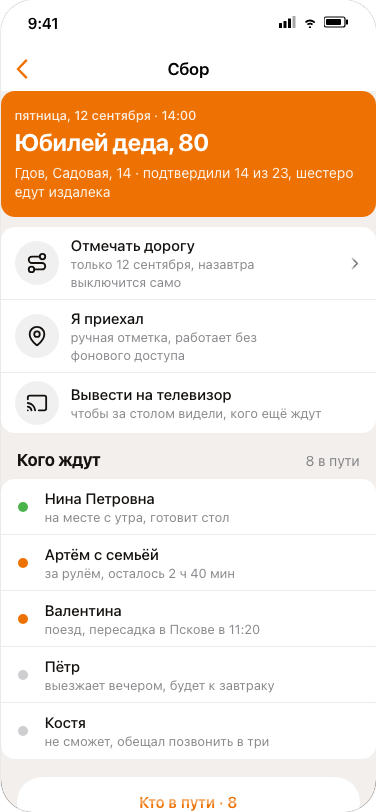
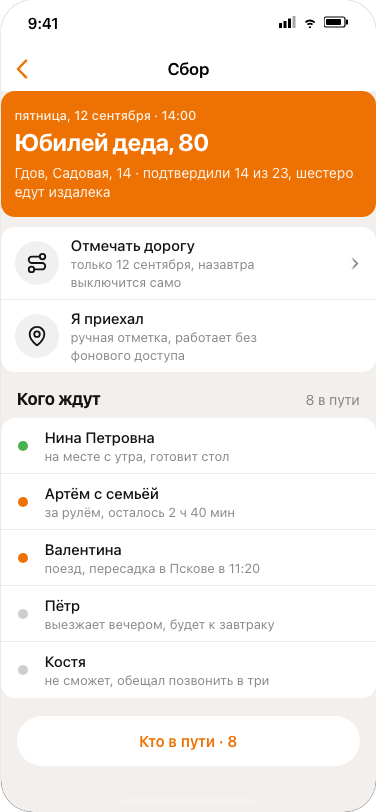
На телевизор уходят видео и записи, а не публикации
Каст стоял в шапке публикации, и одна фотография отправлялась на
большой экран — это не тот сценарий. Экран показа при этом всегда
описывал воспроизведение, а не картинку.

Заведён раздел «Видео»: семейные записи с длительностью, источником
и состоянием загрузки. Из него и из плеера архива идёт выбор
устройства в сети. Из публикации каст убран, из «Сбора» тоже —
живая карта на телевизоре была слабой веткой.

Экран показа стал воспроизведением записи: позиция, перемотка на
±15 секунд, остановка возвращает в раздел видео.

31 экран, тест 113/113, линтер, аудит и сетка чисты.

diff --git a/platform/concepts/rodnya/screens/films.html b/platform/concepts/rodnya/screens/films.html
@@ -1,0 +1,53 @@
+<div class="screen r-page" id="scr-films">
+  <div class="navbar">
+    <div class="nav-leading"><div class="btn-plain tap" data-back aria-label="Назад"><svg class="ios-back" viewBox="0 0 12 21" fill="none"><path d="M10.25 1.75L1.75 10.5l8.5 8.75" stroke="currentColor" stroke-width="2.6" stroke-linecap="round" stroke-linejoin="round"/></svg></div></div>
+    <div class="title">Видео</div>
+  </div>
+  <div class="body-scroll r-scroll">
+    <div class="r-wrap">
+      <div class="r-card pad">
+        <div class="r-prof-nums">
+          <div class="r-prof-num"><b>12</b><span>видео</span></div>
+          <div class="r-prof-num"><b>4</b><span>с кассет</span></div>
+          <div class="r-prof-num"><b>1979</b><span>самое раннее</span></div>
+        </div>
+        <button class="btn-filled tap r-album-cast" data-primary data-go="tv" aria-label="Смотреть на телевизоре"><svg class="ico-svg"><use href="#i-cast"/></svg>Смотреть на телевизоре</button>
+      </div>
+
+      <div class="r-sec-head"><h2>Семейное видео</h2><span>12</span></div>
+      <div class="r-card">
+        <div class="r-row tap" data-go="tv" aria-label="Юбилей деда, застолье">
+          <div class="r-row-face is-art"><div class="ph"></div></div>
+          <div class="r-row-copy"><div class="r-row-t">Юбилей деда, застолье</div><div class="r-row-s">снимал Артём · не скачано, 412 МБ</div></div>
+          <div class="r-end">8:12</div>
+        </div>
+        <div class="r-row tap" data-go="tv" aria-label="Покос, оцифровано с кассеты">
+          <div class="r-row-face is-art"><div class="ph"></div></div>
+          <div class="r-row-copy"><div class="r-row-t">Покос, оцифровано с кассеты</div><div class="r-row-s">оцифровано с кассеты · скачивается</div><div class="dl-bar"><i class="r-p62"></i></div></div>
+          <div class="r-end">3:47 · 62 %</div>
+        </div>
+        <div class="r-row tap" data-go="tv" aria-label="Свадьба на Садовой">
+          <div class="r-row-face is-art"><div class="ph"></div></div>
+          <div class="r-row-copy"><div class="r-row-t">Свадьба на Садовой</div><div class="r-row-s">склеено из четырёх кассет · скачано</div></div>
+          <div class="r-end">21:36</div>
+        </div>
+        <div class="r-row tap" data-go="tv" aria-label="Первые шаги Артёма">
+          <div class="r-row-face is-art"><div class="ph"></div></div>
+          <div class="r-row-copy"><div class="r-row-t">Первые шаги Артёма</div><div class="r-row-s">снято на камеру, 1997 · скачано</div></div>
+          <div class="r-end">1:04</div>
+        </div>
+        <div class="r-row tap" data-go="tv" aria-label="Как строили баню">
+          <div class="r-row-face is-art"><div class="ph"></div></div>
+          <div class="r-row-copy"><div class="r-row-t">Как строили баню</div><div class="r-row-s">звук пропадает с шестой минуты</div></div>
+          <div class="r-end">14:29</div>
+        </div>
+        <div class="r-row tap" data-go="tv" aria-label="Проводы в армию">
+          <div class="r-row-face is-art"><div class="ph"></div></div>
+          <div class="r-row-copy"><div class="r-row-t">Проводы в армию, 1979</div><div class="r-row-s">самая ранняя плёнка в архиве</div></div>
+          <div class="r-end">6:51</div>
+        </div>
+      </div>
+    </div>
+  </div>
+  <div class="home-ind" aria-hidden="true"></div>
+</div>

diff --git a/platform/concepts/rodnya/screens/cast.html b/platform/concepts/rodnya/screens/cast.html
@@ -1,17 +1,17 @@
 <div class="screen r-page r-dark" id="scr-cast">
   <div class="r-stage r-cast">
     <div class="r-cast-art"><div class="ph on-dark"></div></div>
-    <div class="r-cast-t">Двор на Садовой</div>
-    <div class="r-cast-s">Снимок 7 из 34 · Телевизор в гостиной</div>
+    <div class="r-cast-t">Юбилей деда, застолье</div>
+    <div class="r-cast-s">03:04 из 8:12 · Телевизор в гостиной</div>
     <div class="r-track r-cast-track"><span class="r-track-in"></span></div>
     <div class="grow"></div>
     <div class="r-transport r-cast-ctl">
-      <div class="r-ctl tap" data-toast="Предыдущий снимок" aria-label="Предыдущий снимок"><svg class="ico-svg"><use href="#i-chevron-left"/></svg></div>
+      <div class="r-ctl tap" data-toast="Назад на 15 секунд" aria-label="Назад на 15 секунд"><svg class="ico-svg"><use href="#i-rotate-ccw"/></svg></div>
       <div class="r-ctl tap" data-primary data-toast="Показ приостановлен" aria-label="Пауза"><svg class="ico-svg"><use href="#i-pause"/></svg><span class="r-sr-only">Пауза</span></div>
-      <div class="r-ctl tap" data-toast="Следующий снимок" aria-label="Следующий снимок"><svg class="ico-svg"><use href="#i-chevron-right"/></svg></div>
+      <div class="r-ctl tap" data-toast="Вперёд на 15 секунд" aria-label="Вперёд на 15 секунд"><svg class="ico-svg"><use href="#i-rotate-cw"/></svg></div>
     </div>
     <div class="r-call-end">
-      <button class="r-stopcast tap" data-go="post" aria-label="Остановить показ"><svg class="ico-svg"><use href="#i-cast"/></svg>Остановить показ</button>
+      <button class="r-stopcast tap" data-go="films" aria-label="Остановить показ"><svg class="ico-svg"><use href="#i-cast"/></svg>Остановить показ</button>
     </div>
   </div>
 </div>

diff --git a/platform/concepts/rodnya/screens/player.html b/platform/concepts/rodnya/screens/player.html
@@ -34,6 +34,11 @@
           <div class="r-row-face"><svg class="ico-svg"><use href="#i-download"/></svg></div>
           <div class="r-row-copy"><div class="r-row-t">Скачано</div><div class="r-row-s">118 МБ · играет без сети</div></div>
         </div>
+        <div class="r-row tap" data-go="tv" aria-label="Слушать на телевизоре">
+          <div class="r-row-face"><svg class="ico-svg"><use href="#i-cast"/></svg></div>
+          <div class="r-row-copy"><div class="r-row-t">Слушать на телевизоре</div><div class="r-row-s">когда собрались и слушают все вместе</div></div>
+          <div class="r-end"><svg class="ico-svg ios-disclosure"><use href="#i-chevron-right"/></svg></div>
+        </div>
         <div class="r-row tap" data-toast="Обсуждение метки 08:14" aria-label="Обсудить запись">
           <div class="r-row-face"><svg class="ico-svg"><use href="#i-message-circle"/></svg></div>
           <div class="r-row-copy"><div class="r-row-t">Обсуждают метку 08:14</div><div class="r-row-s">там же выясняли, кто третий слева на снимке</div></div>

diff --git a/platform/concepts/rodnya/screens/gather.html b/platform/concepts/rodnya/screens/gather.html
@@ -20,10 +20,6 @@
           <div class="r-row-face"><svg class="ico-svg"><use href="#i-map-pin"/></svg></div>
           <div class="r-row-copy"><div class="r-row-t">Я приехал</div><div class="r-row-s">ручная отметка, работает без фонового доступа</div></div>
         </div>
-        <div class="r-row tap" data-go="tv" aria-label="Показать сбор на телевизоре">
-          <div class="r-row-face"><svg class="ico-svg"><use href="#i-cast"/></svg></div>
-          <div class="r-row-copy"><div class="r-row-t">Вывести на телевизор</div><div class="r-row-s">чтобы за столом видели, кого ещё ждут</div></div>
-        </div>
       </div>
       <div class="r-note" data-show-denied="locationalways" hidden>
         <svg class="ico-svg"><use href="#i-info"/></svg>

diff --git a/platform/concepts/rodnya/screens/voices.html b/platform/concepts/rodnya/screens/voices.html
@@ -19,6 +19,14 @@
           <div class="r-end is-act">Слушать</div>
         </div>
       </div>
+      <div class="r-card">
+        <div class="r-row tap" data-go="films" aria-label="Открыть видео">
+          <div class="r-row-face"><svg class="ico-svg"><use href="#i-video"/></svg></div>
+          <div class="r-row-copy"><div class="r-row-t">Видео</div><div class="r-row-s">12 записей · смотрят на телевизоре</div></div>
+          <div class="r-end"><svg class="ico-svg ios-disclosure"><use href="#i-chevron-right"/></svg></div>
+        </div>
+      </div>
+
       <div class="r-sec-head"><h2>Записи</h2><span>38</span></div>
       <div class="r-card">
         <div class="r-row tap" data-go="player" aria-label="Кассета с юбилея деда">

diff --git a/platform/concepts/rodnya/screens/tv.html b/platform/concepts/rodnya/screens/tv.html
@@ -2,7 +2,7 @@
   <div class="sheet">
     <div class="grabber" aria-hidden="true"></div>
     <div class="sheet-body">
-      <div class="r-top"><div class="r-top-title">Показать на телевизоре</div><div class="r-top-acts"><div class="r-icon tap" data-back aria-label="Закрыть"><svg class="ico-svg"><use href="#i-x"/></svg></div></div></div>
+      <div class="r-top"><div class="r-top-title">Смотреть на телевизоре</div><div class="r-top-acts"><div class="r-icon tap" data-back aria-label="Закрыть"><svg class="ico-svg"><use href="#i-x"/></svg></div></div></div>
       <div class="r-net">
         <svg class="ico-svg"><use href="#i-wifi"/></svg>
         <span>Сеть «Kovalev_5G» · ищем устройства в ней</span>

diff --git a/platform/concepts/rodnya/screens/post.html b/platform/concepts/rodnya/screens/post.html
@@ -6,7 +6,7 @@
       </div>
     </div>
     <div class="title">Публикация</div>
-    <div class="nav-trailing"><div class="r-icon tap" data-go="tv" aria-label="Показать на телевизоре"><svg class="ico-svg"><use href="#i-cast"/></svg></div></div>
+
   </div>
   <div class="body-scroll r-scroll">
     <div class="r-card">

diff --git a/platform/concepts/rodnya/styles.css b/platform/concepts/rodnya/styles.css
@@ -1248,3 +1248,9 @@
   height: 24px;
   stroke-width: 1.8;
 }
+
+.r-album-cast {
+  width: 100%;
+  margin-top: 16px;
+  gap: 8px;
+}
